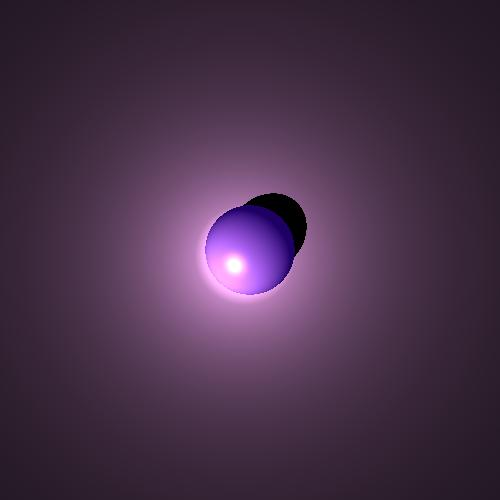
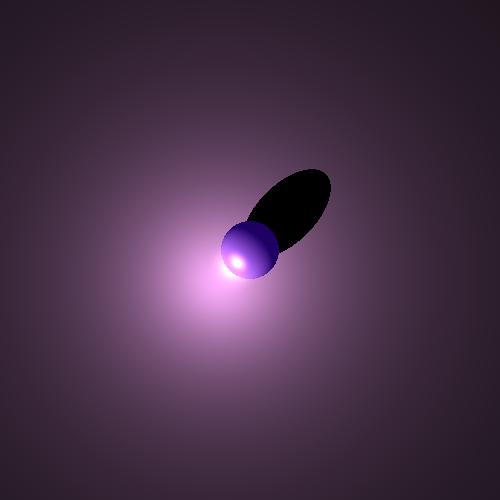
some bug fixes

Changed region(s): [[0.24, 0.33, 0.69, 0.75]]

diff --git a/src/unittests/ShadowTest.java b/src/unittests/ShadowTest.java
@@ -7,6 +7,7 @@ import org.junit.Test;
 import elements.AmbientLight;
 import elements.Camera;
 import elements.PointLight;
+import elements.SpotLight;
 import geometries.*;
 import primitives.*;
 import renderer.ImageWriter;
@@ -27,8 +28,8 @@ public class ShadowTest {
 			_scene.setAmbientLight(new AmbientLight(new Color(0,0,0), 1));
 			
 			_scene.addLight(new PointLight(new Color(255,175,255),new Point3D(-6,-6,0), 1, 0, 0));
-			_scene.addGeometry(new Sphere(10, new Point3D(0,0, -15), new Color(30,0,100), new Material(1,1,10)));
-			_scene.addGeometry(new Plane(new Point3D(0,0,-30),new Vector(0,0,-1),new Color(0,0,0), new Material(1,1,1)));
+			_scene.addGeometry(new Sphere(3, new Point3D(0,0, -6), new Color(30,0,100), new Material(1,1,10)));
+			_scene.addGeometry(new Plane(new Point3D(0,0,-10),new Vector(0,0,-1),new Color(0,0,0), new Material(1,1,10)));
 		  	//_scene.addGeometry(new Triangle(new Point3D(0, -4, -4), new Point3D(4, 0, -4),new Point3D(4, -4, -4), new Color(30,100,30), new Material(1,1,1)));
 		  	//_scene.addGeometry(new Triangle(new Point3D(0, -4, -4), new Point3D(4, 0, -4),new Point3D(4, -4, -4), new Color(30,100,30), new Material(1,1,1)));
 		  	
@@ -41,4 +42,25 @@ public class ShadowTest {
 			System.out.println("Finish");
 	
 	}
+	
+	@Test
+	  public void shadowTest() {
+	    Scene _scene = new Scene("Test shadow");
+	    _scene.setCamera(new Camera( new Point3D(0, 0, 0),new Vector(0, -1, 0), new Vector(0, 0, 1)));
+	    _scene.setScreenDistance(100);
+	    _scene.setBackground(new Color(0,0,0));
+	    _scene.setAmbientLight(new AmbientLight(new Color(0,0,0), 1));
+	    Sphere sphere = new Sphere( 60,new Point3D(0, 0, 80), new Color(241, 6, 151),new Material(0.9,0.8,300));
+	    Triangle triangle1 = new Triangle(new Point3D(-250,-250,120),new Point3D(-250,250,120),new Point3D(250,-250,120),new Color(0,0,0),new Material(0.9, 0.8, 100));
+	    Triangle triangle2 = new Triangle(new Point3D(250,250,120),new Point3D(-250,250,120),new Point3D(250,-250,120),new Color(0,0,0),new Material(0.9, 0.8, 100));
+	    _scene.addGeometry(sphere);
+	    _scene.addGeometry(triangle1);
+	    _scene.addGeometry(triangle2);
+	    _scene.addLight(new SpotLight( new Color(255,255,255),new Point3D(25,0,0),1,0,0, new Vector(-25,0,80)));
+	    ImageWriter imageWriter = new ImageWriter("shadow test", 500, 500, 500, 500);
+	    Render testRender = new Render(imageWriter, _scene);
+	    testRender.renderImage();
+	    testRender.writeToImage();
+	    
+	  }
 }

diff --git a/src/unittests/RenderTest.java b/src/unittests/RenderTest.java
@@ -42,33 +42,6 @@ public class RenderTest {
 	*/
 	
 	
-	/*@Test
-	public void SpotLightTest(){
-			int X = 500;
-			int Y = 500;
-			Date d = new Date();
-			ImageWriter _imageWriter = new ImageWriter("SpotLightTest", X, Y, X, Y);
-			Scene _scene = new Scene("s");
-			_scene.setScreenDistance(120);
-			_scene.setBackground(new Color(0,0,0));
-			_scene.setCamera(new Camera(new Point3D(0,0,0), new Vector(0,1,0), new Vector(0,0,-1)));
-			_scene.setAmbientLight(new AmbientLight(new Color(30,30,30), 1));
-			
-			_scene.addLight(new SpotLight(new Color(100,100,255),new Point3D(-3,-2,-2), 1, 0, 1.7,new Point3D(0,0,-10).subtract(new Point3D(-3,-2,-2))));
-			_scene.addGeometry(new Sphere(6, new Point3D(0, 0, -10), new Color(0,0,100), new Material(1,1,1)));
-			
-		  	//_scene.addGeometry(new Triangle(new Point3D(0, -4, -4), new Point3D(4, 0, -4),new Point3D(4, -4, -4), new Color(30,100,30), new Material(1,1,1)));
-		  	//_scene.addGeometry(new Triangle(new Point3D(0, -4, -4), new Point3D(4, 0, -4),new Point3D(4, -4, -4), new Color(30,100,30), new Material(1,1,1)));
-		  	
-			Render r = new Render(_imageWriter,_scene);
-
-			r.renderImage();
-			r.writeToImage();
-			Date d2 = new Date();
-			System.out.println(d2.getTime() - d.getTime());
-			System.out.println("Finish");
-	
-	}*/
 	
 	
 }

diff --git a/src/renderer/Render.java b/src/renderer/Render.java
@@ -85,7 +85,7 @@ public class Render {
 	private boolean occluded(Vector l, Point3D point, Geometry geometry) {
 		Vector lightDirection = l.multiply(-1); // from point to light source
 		Vector normal = geometry.getNormal(point);
-		Vector epsVector = normal.multiply((normal.dot_product(lightDirection) > 0) ? 2 : -2);
+		Vector epsVector = normal.multiply((normal.dot_product(lightDirection) > 0) ? 2*Math.pow(2,Coordinate.getACCURACY()) : -2*Math.pow(2,Coordinate.getACCURACY()));
 		Point3D geometryPoint = point.add(epsVector);
 		Ray lightRay = new Ray(geometryPoint, lightDirection);
 		Map<Geometry, List<Point3D>> intersectionPoints =

diff --git a/src/elements/SpotLight.java b/src/elements/SpotLight.java
@@ -9,7 +9,7 @@ public class SpotLight extends PointLight implements LightSource{
 
 	public SpotLight(Color _color, Point3D _position, double _Kc, double _Kl, double _Kq, Vector _direction) {
 		super(_color, _position, _Kc, _Kl, _Kq);
-		this._direction = new Vector(_direction);
+		this._direction = _direction.normalization();
 	}
 	
 	public SpotLight(SpotLight SPL) {

diff --git a/src/primitives/Coordinate.java b/src/primitives/Coordinate.java
@@ -31,6 +31,10 @@ public class Coordinate {
 	public double get() {
 		return _coord;
 	}
+	
+	public static double getACCURACY() {
+		return ACCURACY;
+	}
 
 	/*************** Admin *****************/
 	/**
